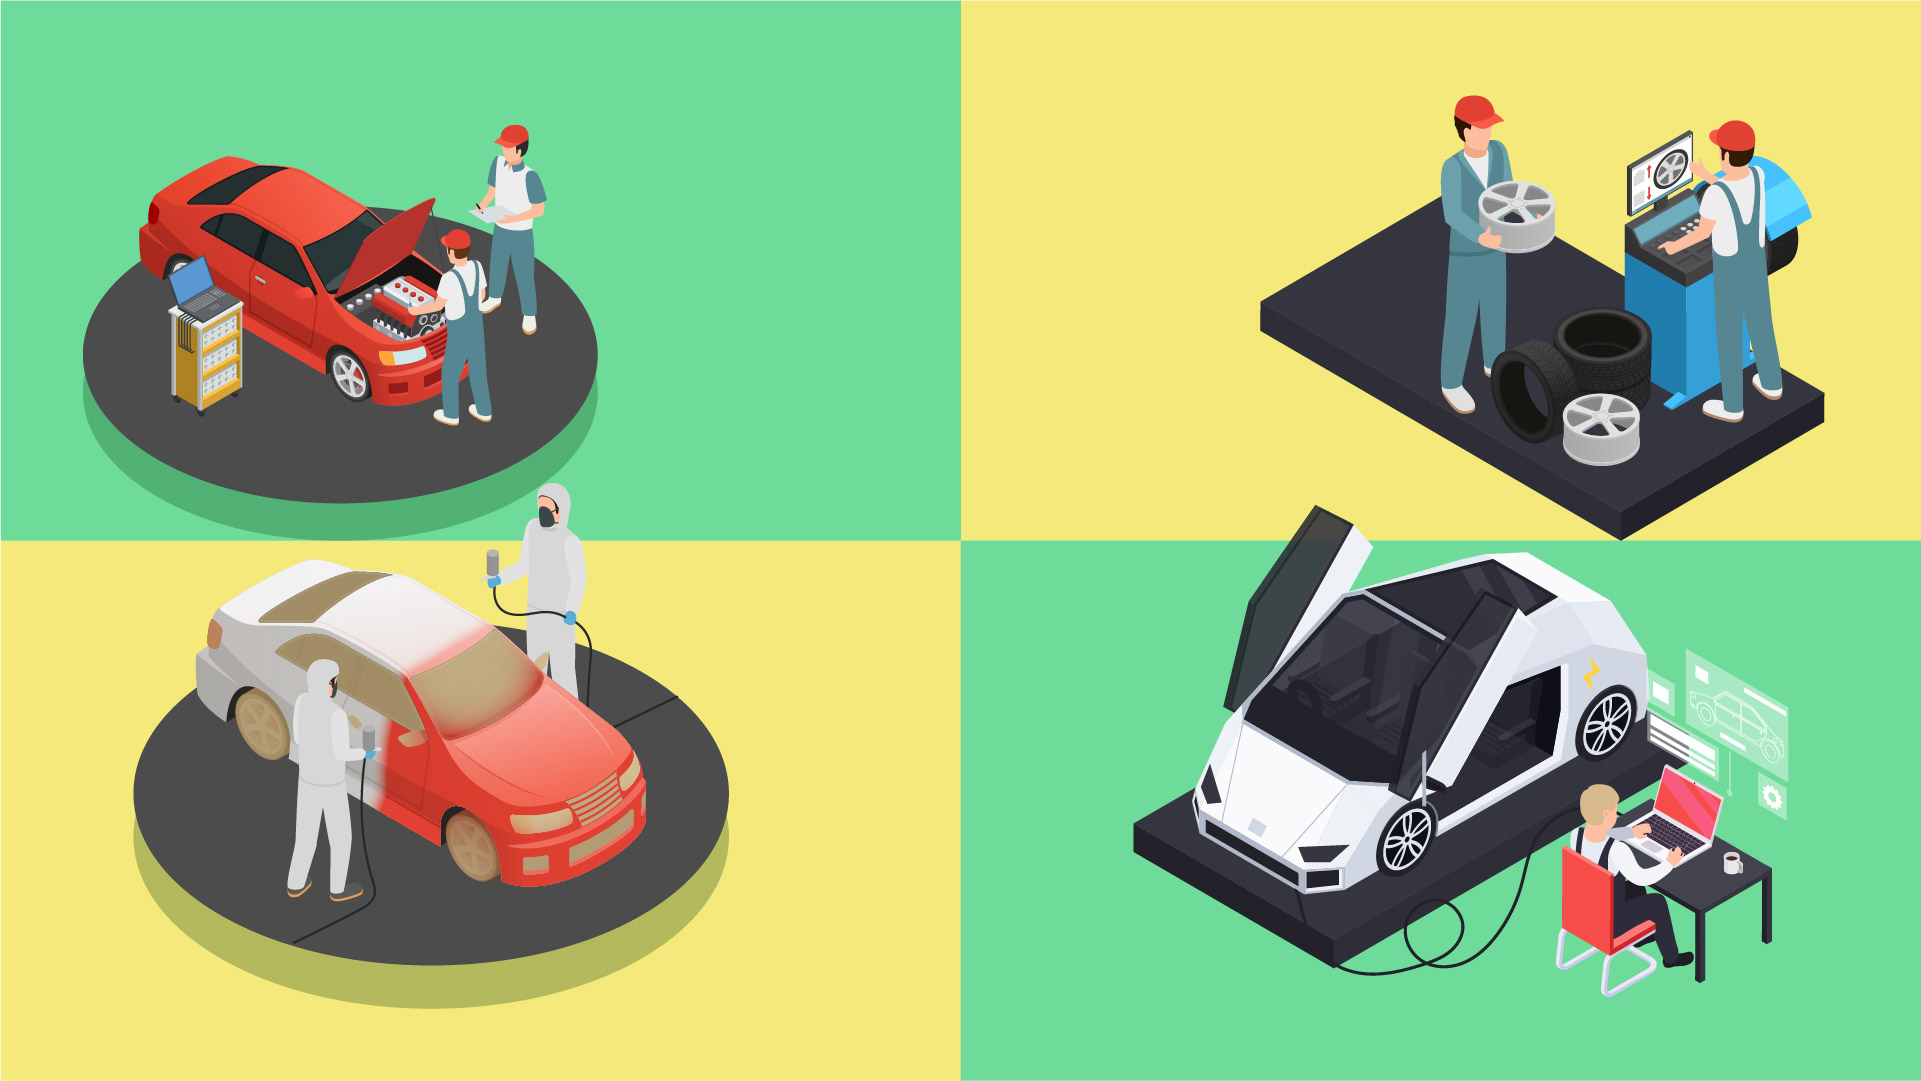
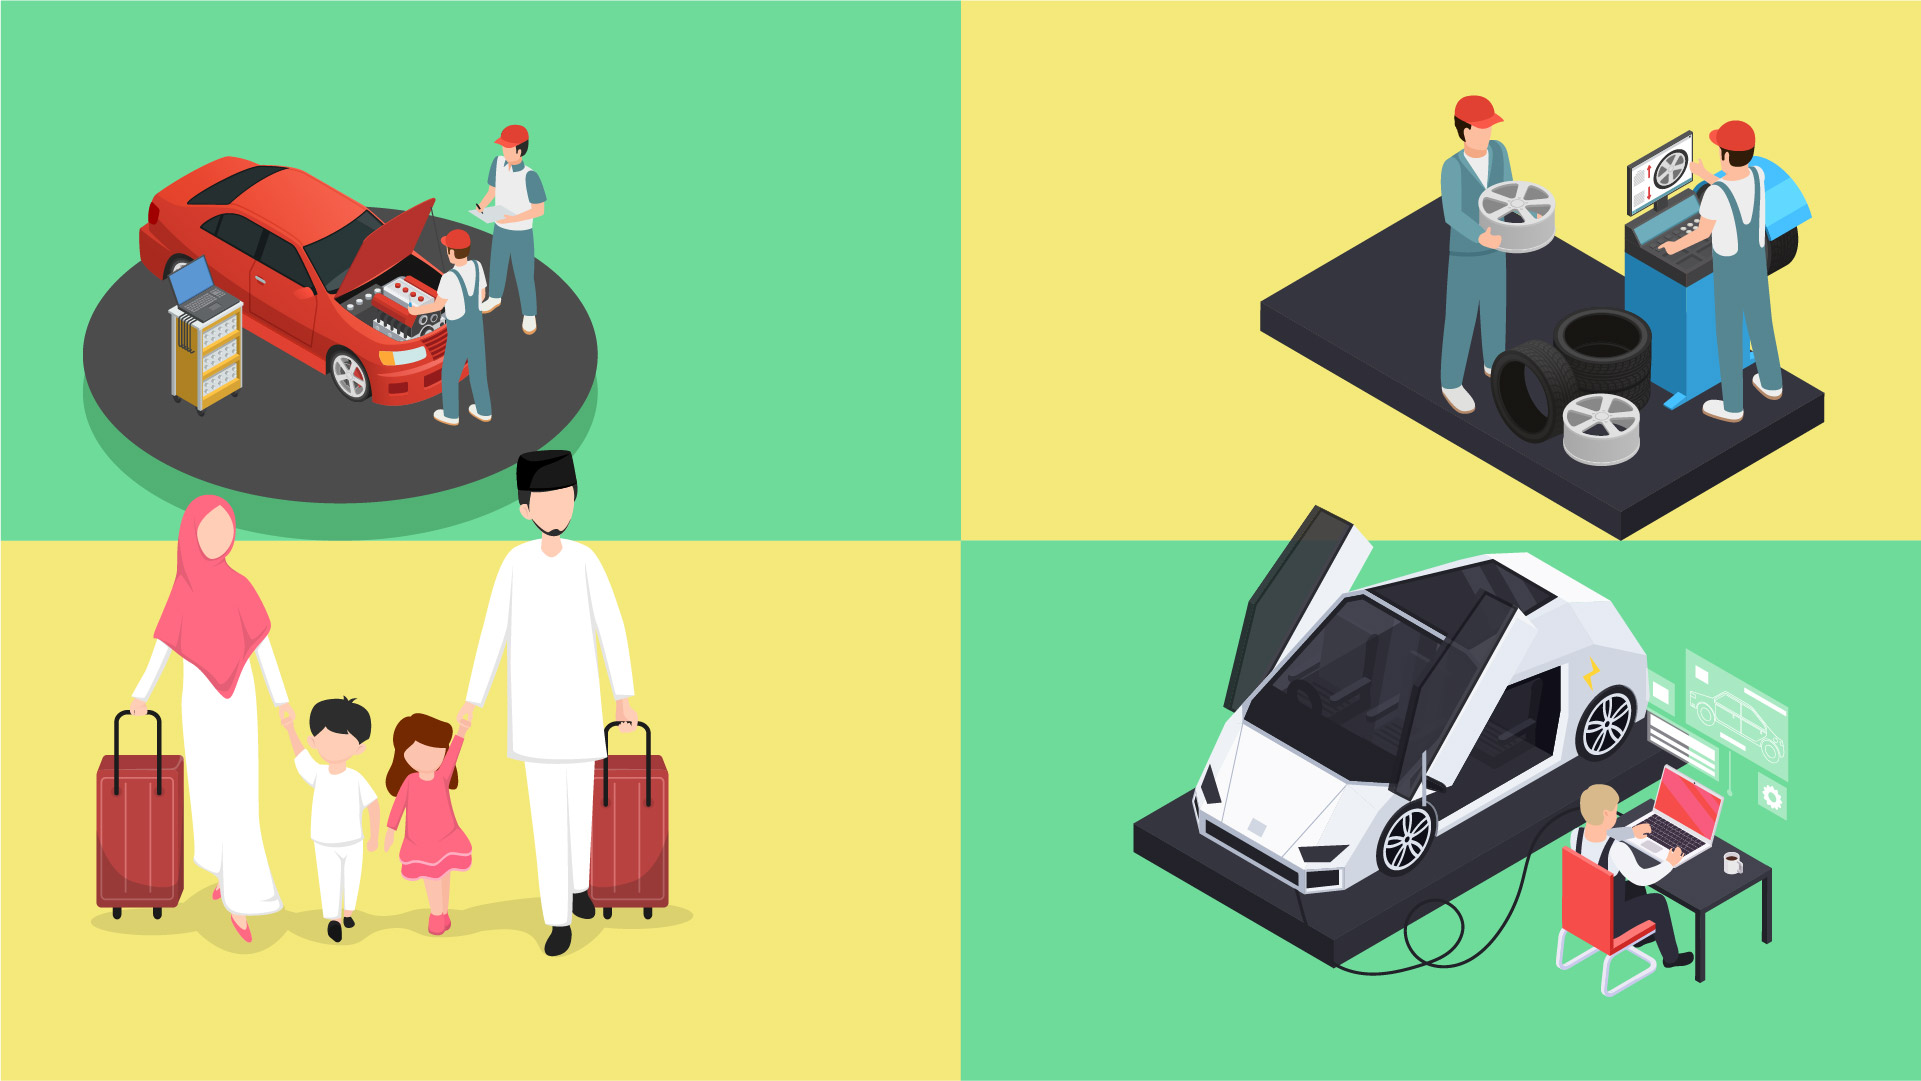
deded

Changed region(s): [[0.0312, 0.3969, 0.406, 0.9463]]

diff --git a/sass/style.css b/sass/style.css
@@ -1,1 +1,1 @@
[2 lines of base64/hex data omitted]

diff --git a/sass/data.scss b/sass/data.scss
@@ -44,7 +44,7 @@
         width: 100%;
         height: 100%;
         z-index: 1;
-        background-image: url("../img/bumper-mudik-04.png");
+        background-image: url("../img/bumper-mudik-03.png");
         background-size: contain;
         background-position: center;
         background-repeat: no-repeat;
